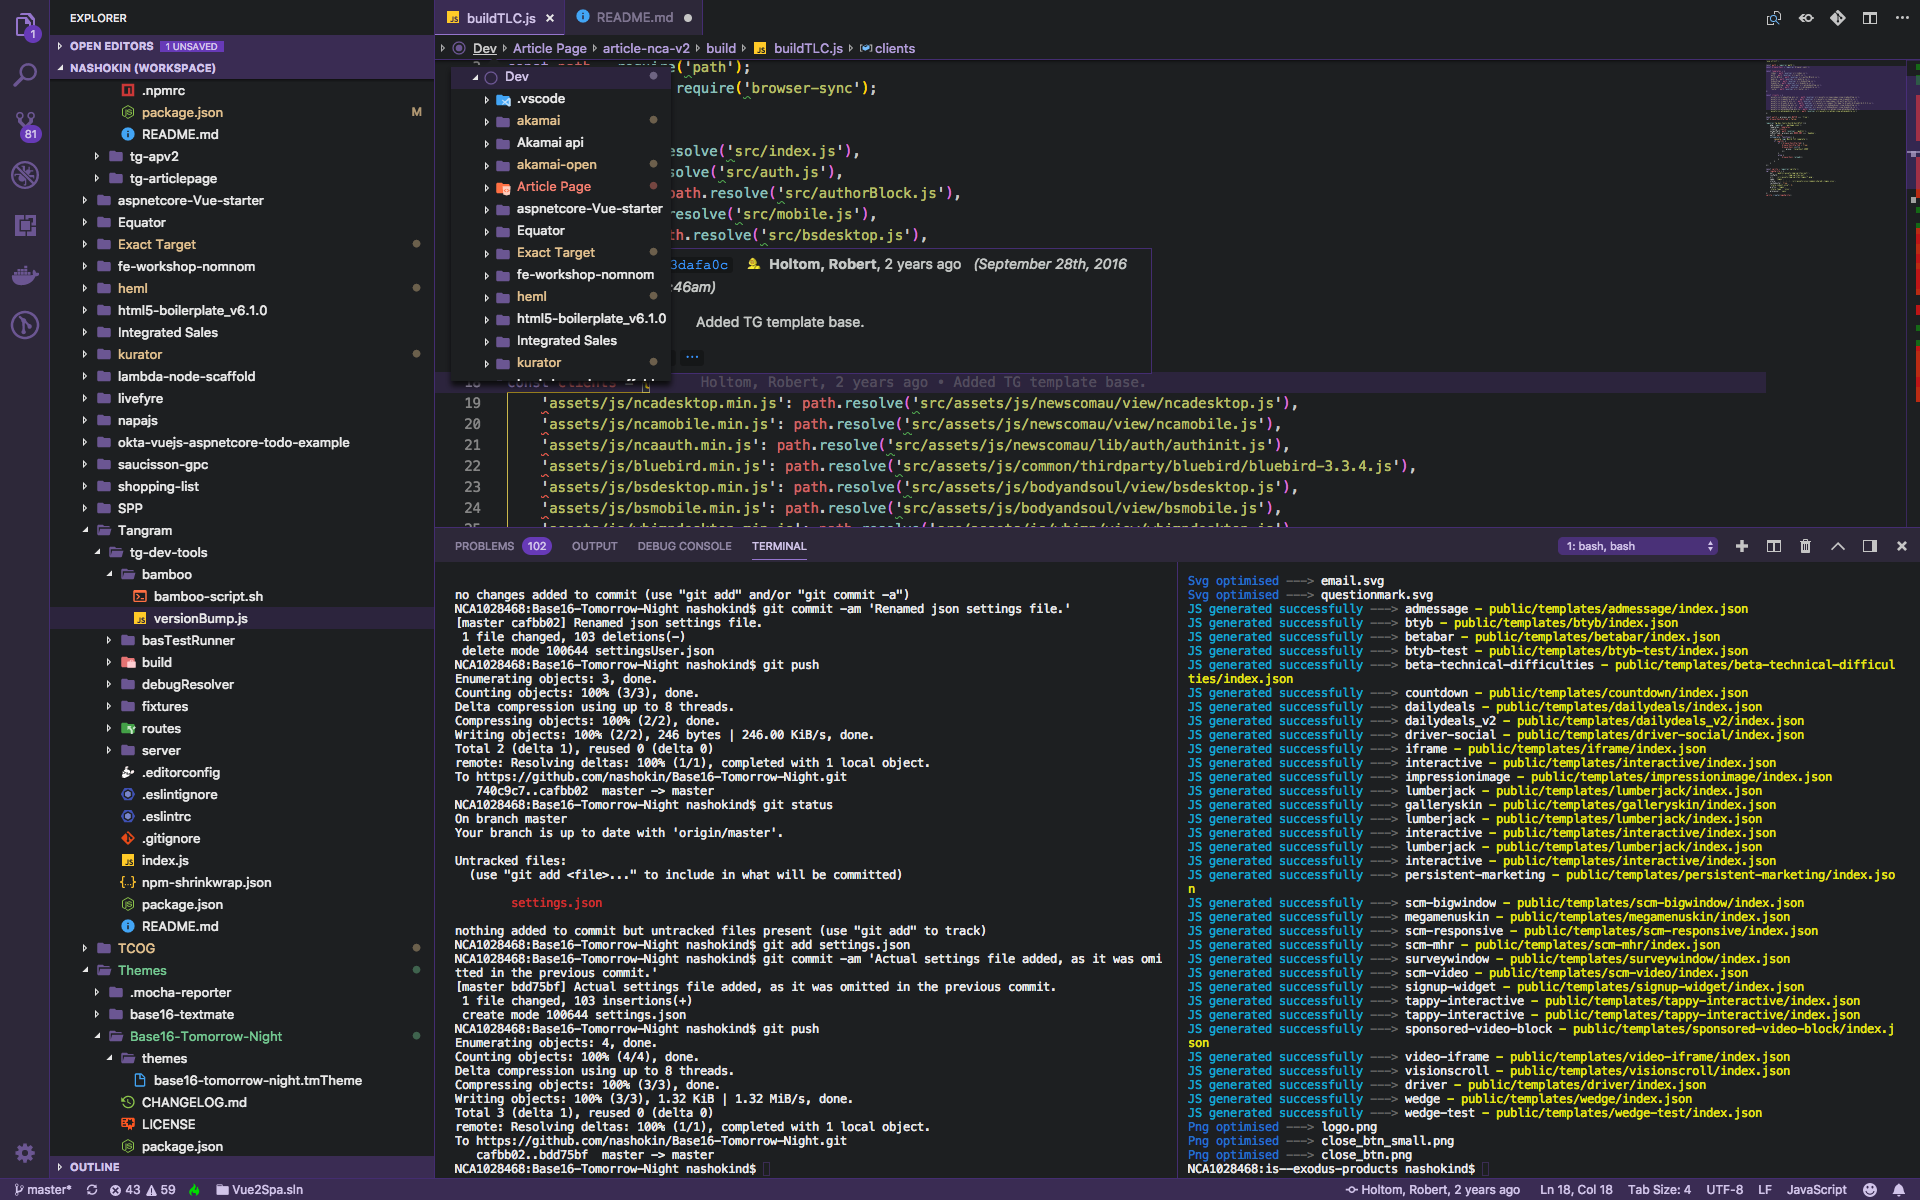
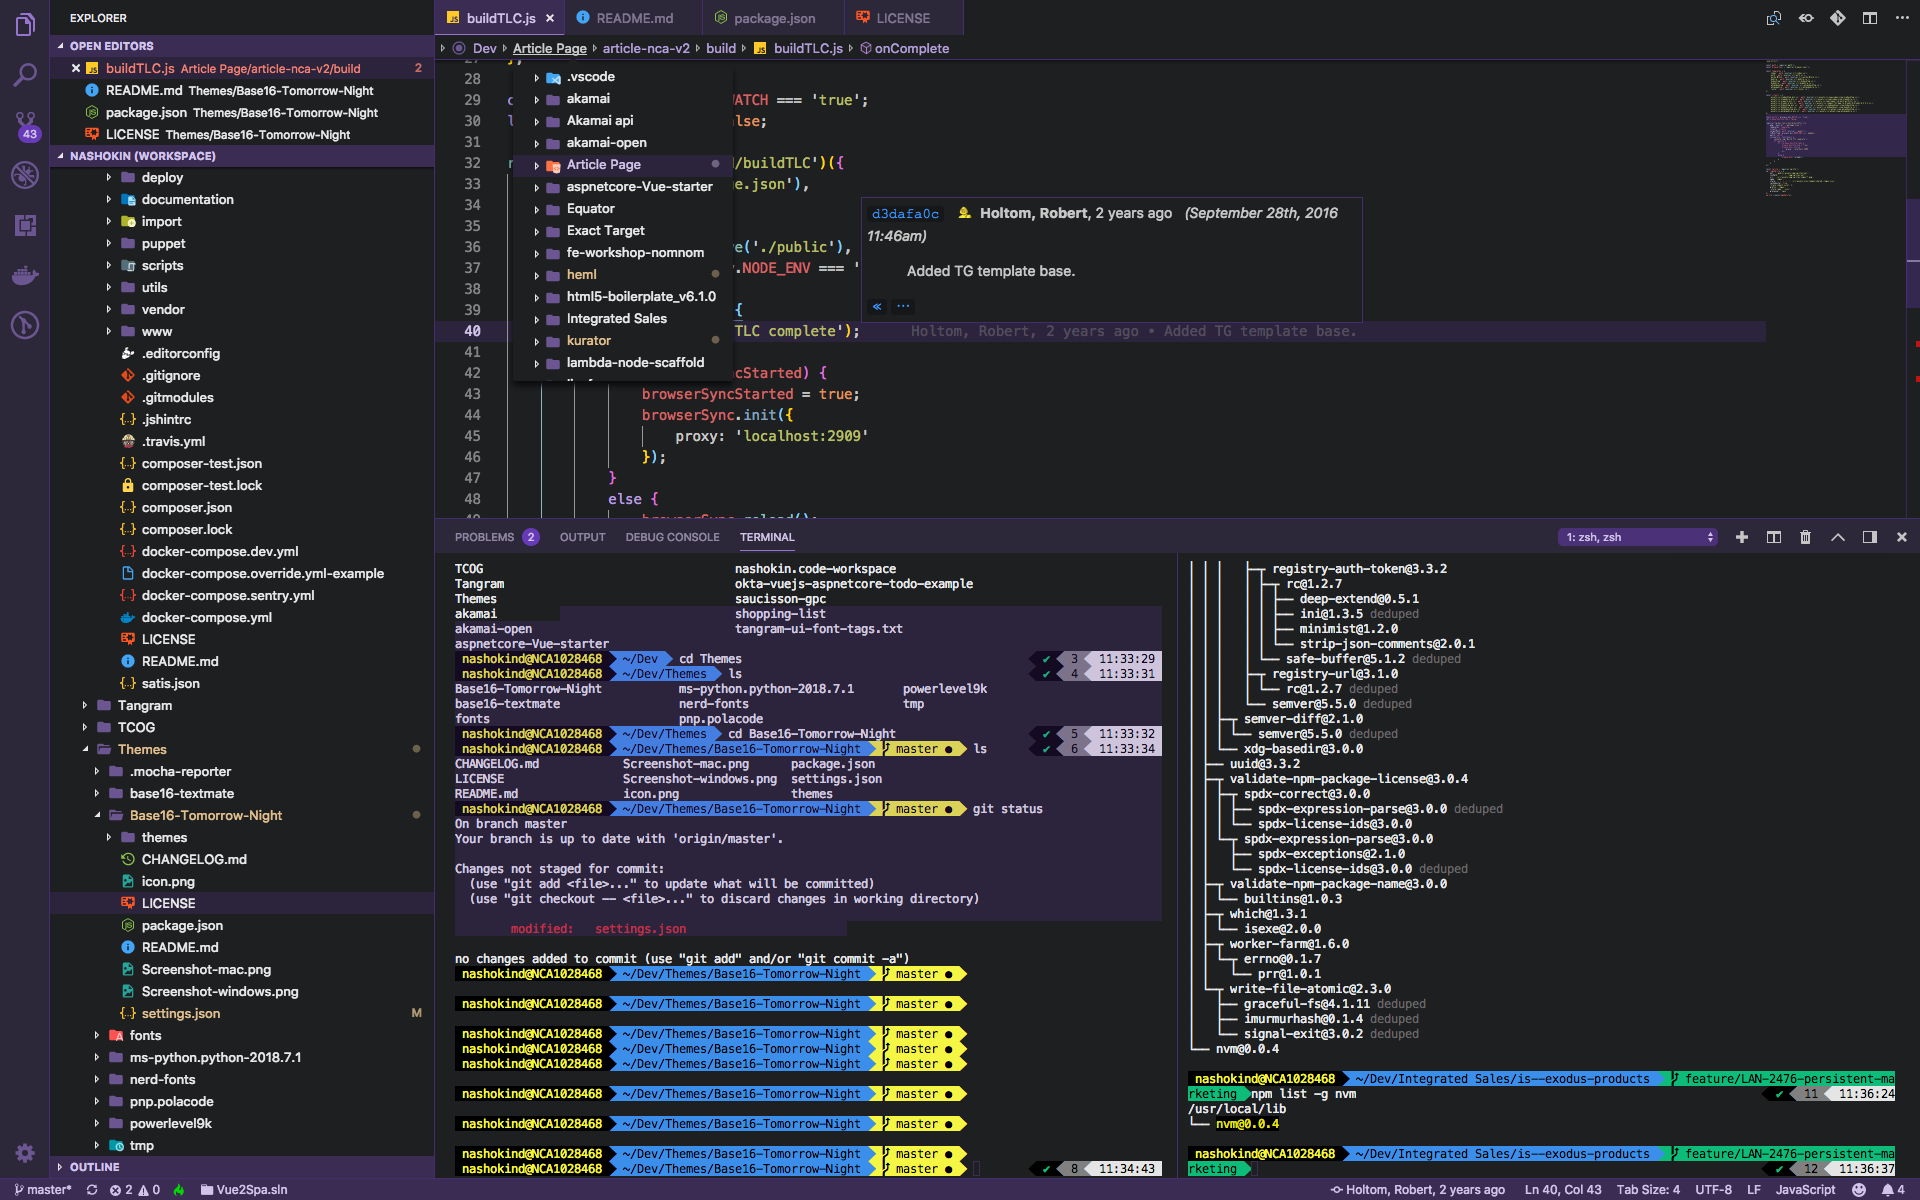
Updated readme with zsh config instructions, added new screenshot for macos, user settings for zsh for mac.

diff --git a/README.md b/README.md
@@ -16,5 +16,10 @@ Copy this json to your Visual Studio user setting section for the purple customi
 * Braket Pair Colorizer
 * ESLint
 
+### Terminal configuration
+* zsh (In terminal run: 'brew install zsh zsh-completions') [macos instructions](http://sourabhbajaj.com/mac-setup/iTerm/zsh.html)
+* [powerlevel9k theme for zsh](https://github.com/bhilburn/powerlevel9k)
+* [zsh patched fonts](https://github.com/powerline/fonts)
+
 ### For more information
 * [Daniel Nashokin](http://www.zyker.com.au)
